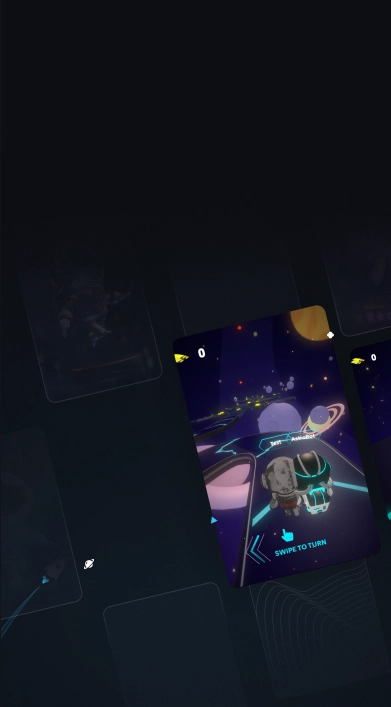
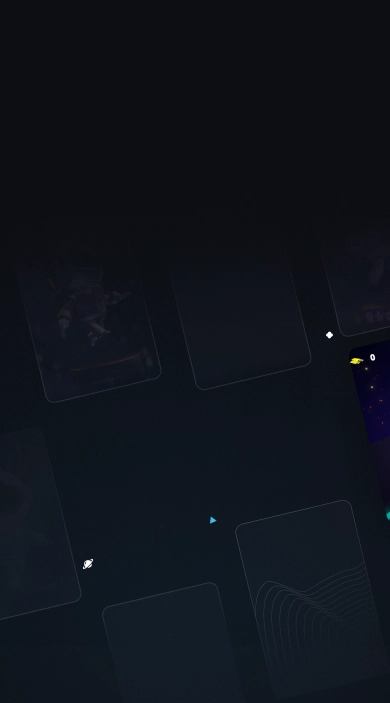
Animate the hero section when loading

diff --git a/pages/index.js b/pages/index.js
@@ -9,6 +9,7 @@ import Roadmap from '../component/Roadmap';
 import RoadmapMobile from '../component/RoadmapMobile';
 import CustomCursor from 'custom-cursor-react';
 import 'custom-cursor-react/dist/index.css';
+import "animate.css";
 
 export default function Home() {
   // initialize aos
@@ -73,8 +74,13 @@ export default function Home() {
       <main className={styles.container}>
         <div className={styles.heroBG}>
           <div className={styles.orbit1}><Orbit/></div>
-          <div className={styles.card2}><img src="/card2.png" alt="card" /></div>
-          <div className={styles.card2Mobile}><img src="/card2-mobile.png" alt="card" /></div>
+          <div className='animate__animated animate__fadeInRight'><div className={styles.card2}><img src="/card2.png" alt="card" /></div></div>
+          <div className='animate__animated animate__fadeInRight'><div className={styles.card2Mobile}><img src="/card2-mobile.png" alt="card" /></div></div>
+          <div className='animate__animated animate__fadeInRight'><div className={styles.card1Mobile}><img src="/card1-mobile.png" alt="card" /></div></div>
+          <div className='animate__animated animate__fadeInRight'><div className={styles.card3}><img src="/card3.png" alt="card" /></div></div>
+          <div className='animate__animated animate__fadeInRight'><div className={styles.card1}><img src="/card1.png" alt="card" /></div></div>
+
+
           <nav className={styles.nav}>
             <div className={styles.logo}><Image priority src="/logo.png" height={75} width={75} alt="logo" /></div>
             <ul>
@@ -94,14 +100,18 @@ export default function Home() {
           </nav>
 
           <div className={styles.hero}>
-            <h2 className={styles.header}>Creating fun games to wager crypto with 
-        <span className={styles.yourSkill}>&nbsp;your friends</span></h2>
-            <p className={styles.headerPara}>
+            <div className='animate__animated animate__fadeInLeft'><h2 className={styles.header}>Creating fun games to wager crypto with 
+        <span className={styles.yourSkill}>&nbsp;your friends</span></h2></div>
+            <div className='animate__animated animate__fadeInLeft'>
+              <p className={styles.headerPara}>
             Discover Rocketie studios with their first <span>exclusive NFT</span> release and have a say in a truly decentralised web3 game studio.
-            </p>
-            <div className={styles.heroBtns}>
-              <button>Play now</button>
-              <button>View NFTs</button>
+              </p>
+            </div>
+            <div className='animate__animated animate__fadeInLeft'>
+              <div className={styles.heroBtns}>
+                <button>Play now</button>
+                <button>View NFTs</button>
+              </div>
             </div>
           </div>
           

diff --git a/styles/Home.module.css b/styles/Home.module.css
@@ -31,6 +31,14 @@
     scale: 1.2;
 }
 
+.card1 img {
+    position: absolute;
+    rotate: -13.42deg;
+    top: -170px;
+    right: 20%;
+    z-index: 1;
+}
+
 .card2 img {
     position: absolute;
     rotate: -13.42deg;
@@ -39,7 +47,19 @@
     z-index: -1;
 }
 
+.card3 img {
+    position: absolute;
+    rotate: -13.42deg;
+    top: -100px;
+    right: 2%;
+    z-index: -3;
+}
+
 .card2Mobile {
+    display: none;
+}
+
+.card1Mobile {
     display: none;
 }
 
@@ -1080,12 +1100,26 @@
     .card2 {
         display: none;
     }
+    .card1 {
+        display: none;
+    }
+    .card3 {
+        display: none;
+    }
     
     .card2Mobile {
         display: block;
         position: absolute;
         top: 490px;
         right: 50%;
+        rotate: -13.42deg;
+    }
+
+    .card1Mobile {
+        display: block;
+        position: absolute;
+        top: 370px;
+        right: 5%;
         rotate: -13.42deg;
     }
 
@@ -1149,10 +1183,9 @@
     .heroBtns button {
         justify-content: center;
         margin-bottom: 0;
-        width: 92.52px;
-        height: 38px;
-        font-size: 12px;
-        padding:0 0;
+        width: 92.52px !important;
+        height: 38px !important;
+        font-size: 12px !important;
         margin: 0 auto;
     }
 

diff --git a/styles/globals.css b/styles/globals.css
@@ -26,3 +26,15 @@ a {
 * {
   box-sizing: border-box;
 }
+
+.animate__fadeInRight {
+  position: relative;
+  top: 400px;
+}
+
+@media screen and (max-width:768px) {
+  .animate__fadeInRight {
+    position: relative;
+    top: 0;
+  } 
+}
